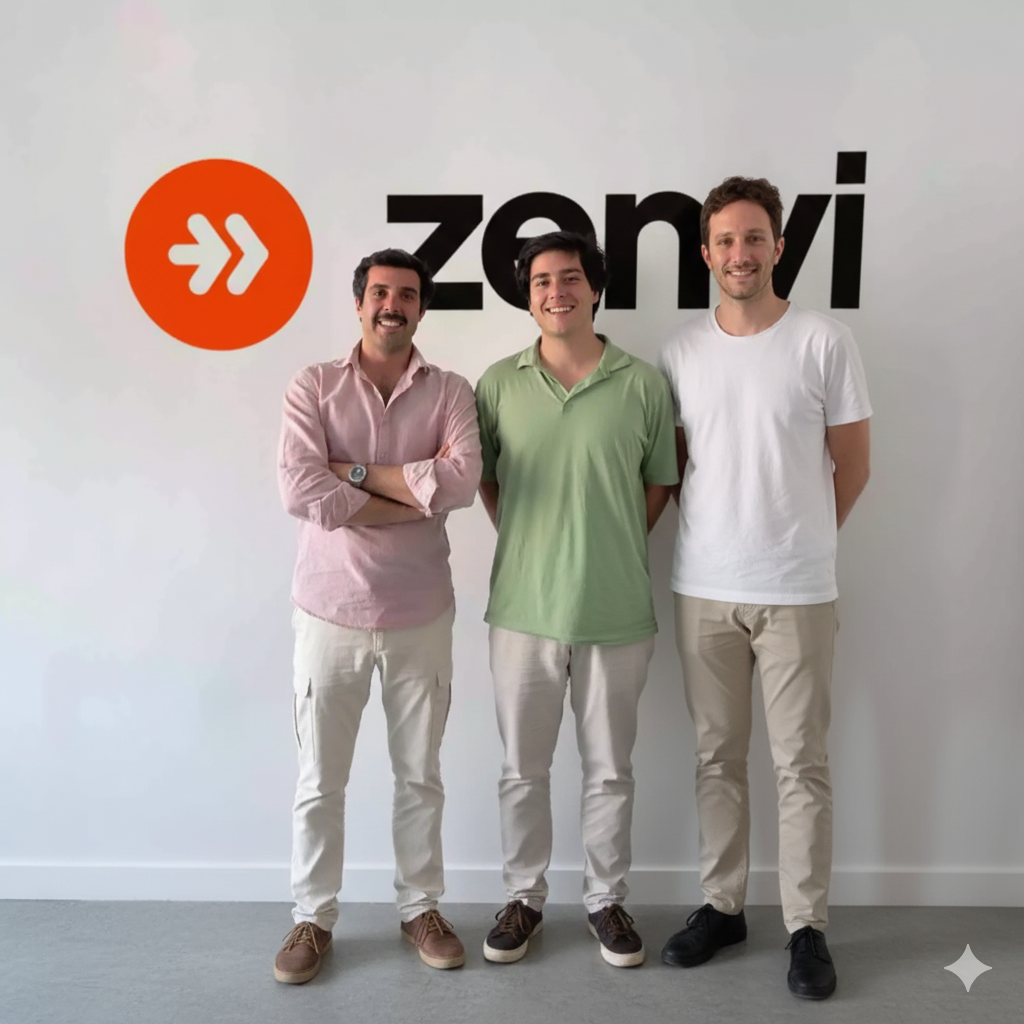
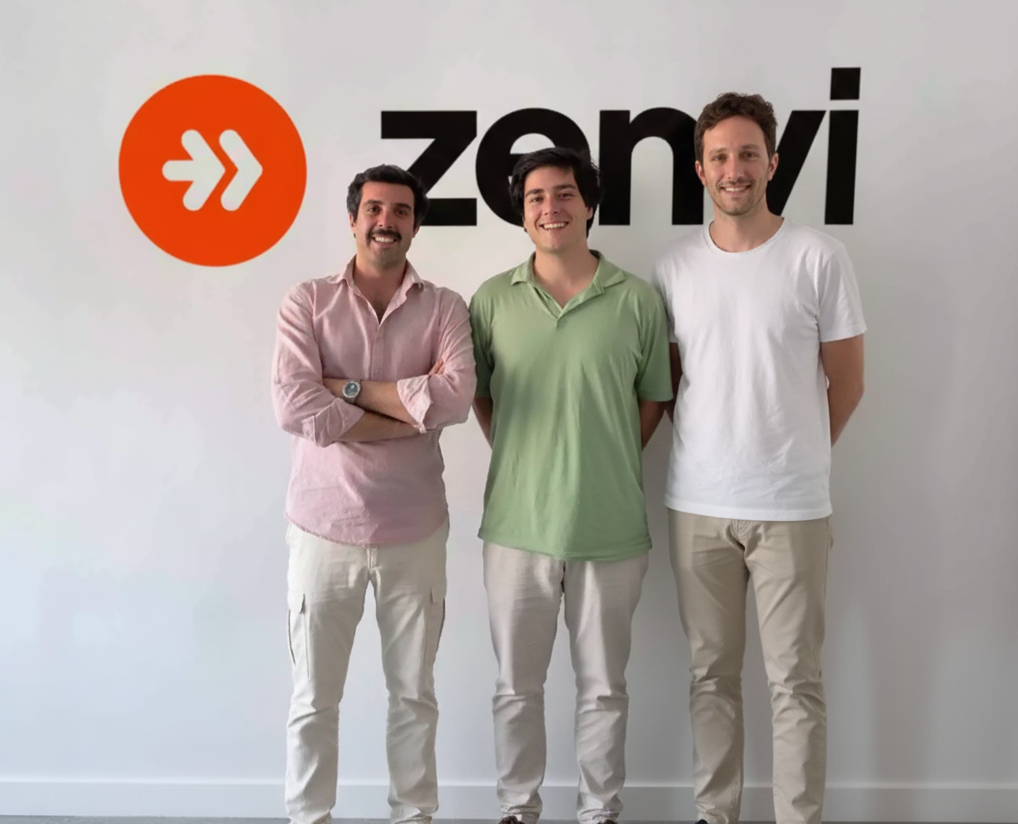
Align with top

Changed region(s): [[0.0, 0.0607, 1.0, 1.0], [0.7917, 0.4248, 0.8527, 0.5461], [0.8222, 0.3944, 0.8527, 0.4248]]

diff --git a/src/components/About.tsx b/src/components/About.tsx
@@ -80,7 +80,7 @@ const About = () => {
             </div>
 
             <div 
-              className="rounded-2xl shadow-strong h-96 bg-cover bg-center"
+              className="rounded-2xl shadow-strong h-96 bg-cover bg-center bg-top"
               style={{
                 backgroundImage: `url('${import.meta.env.BASE_URL}assets/zenvi-team.png')`
               }}
